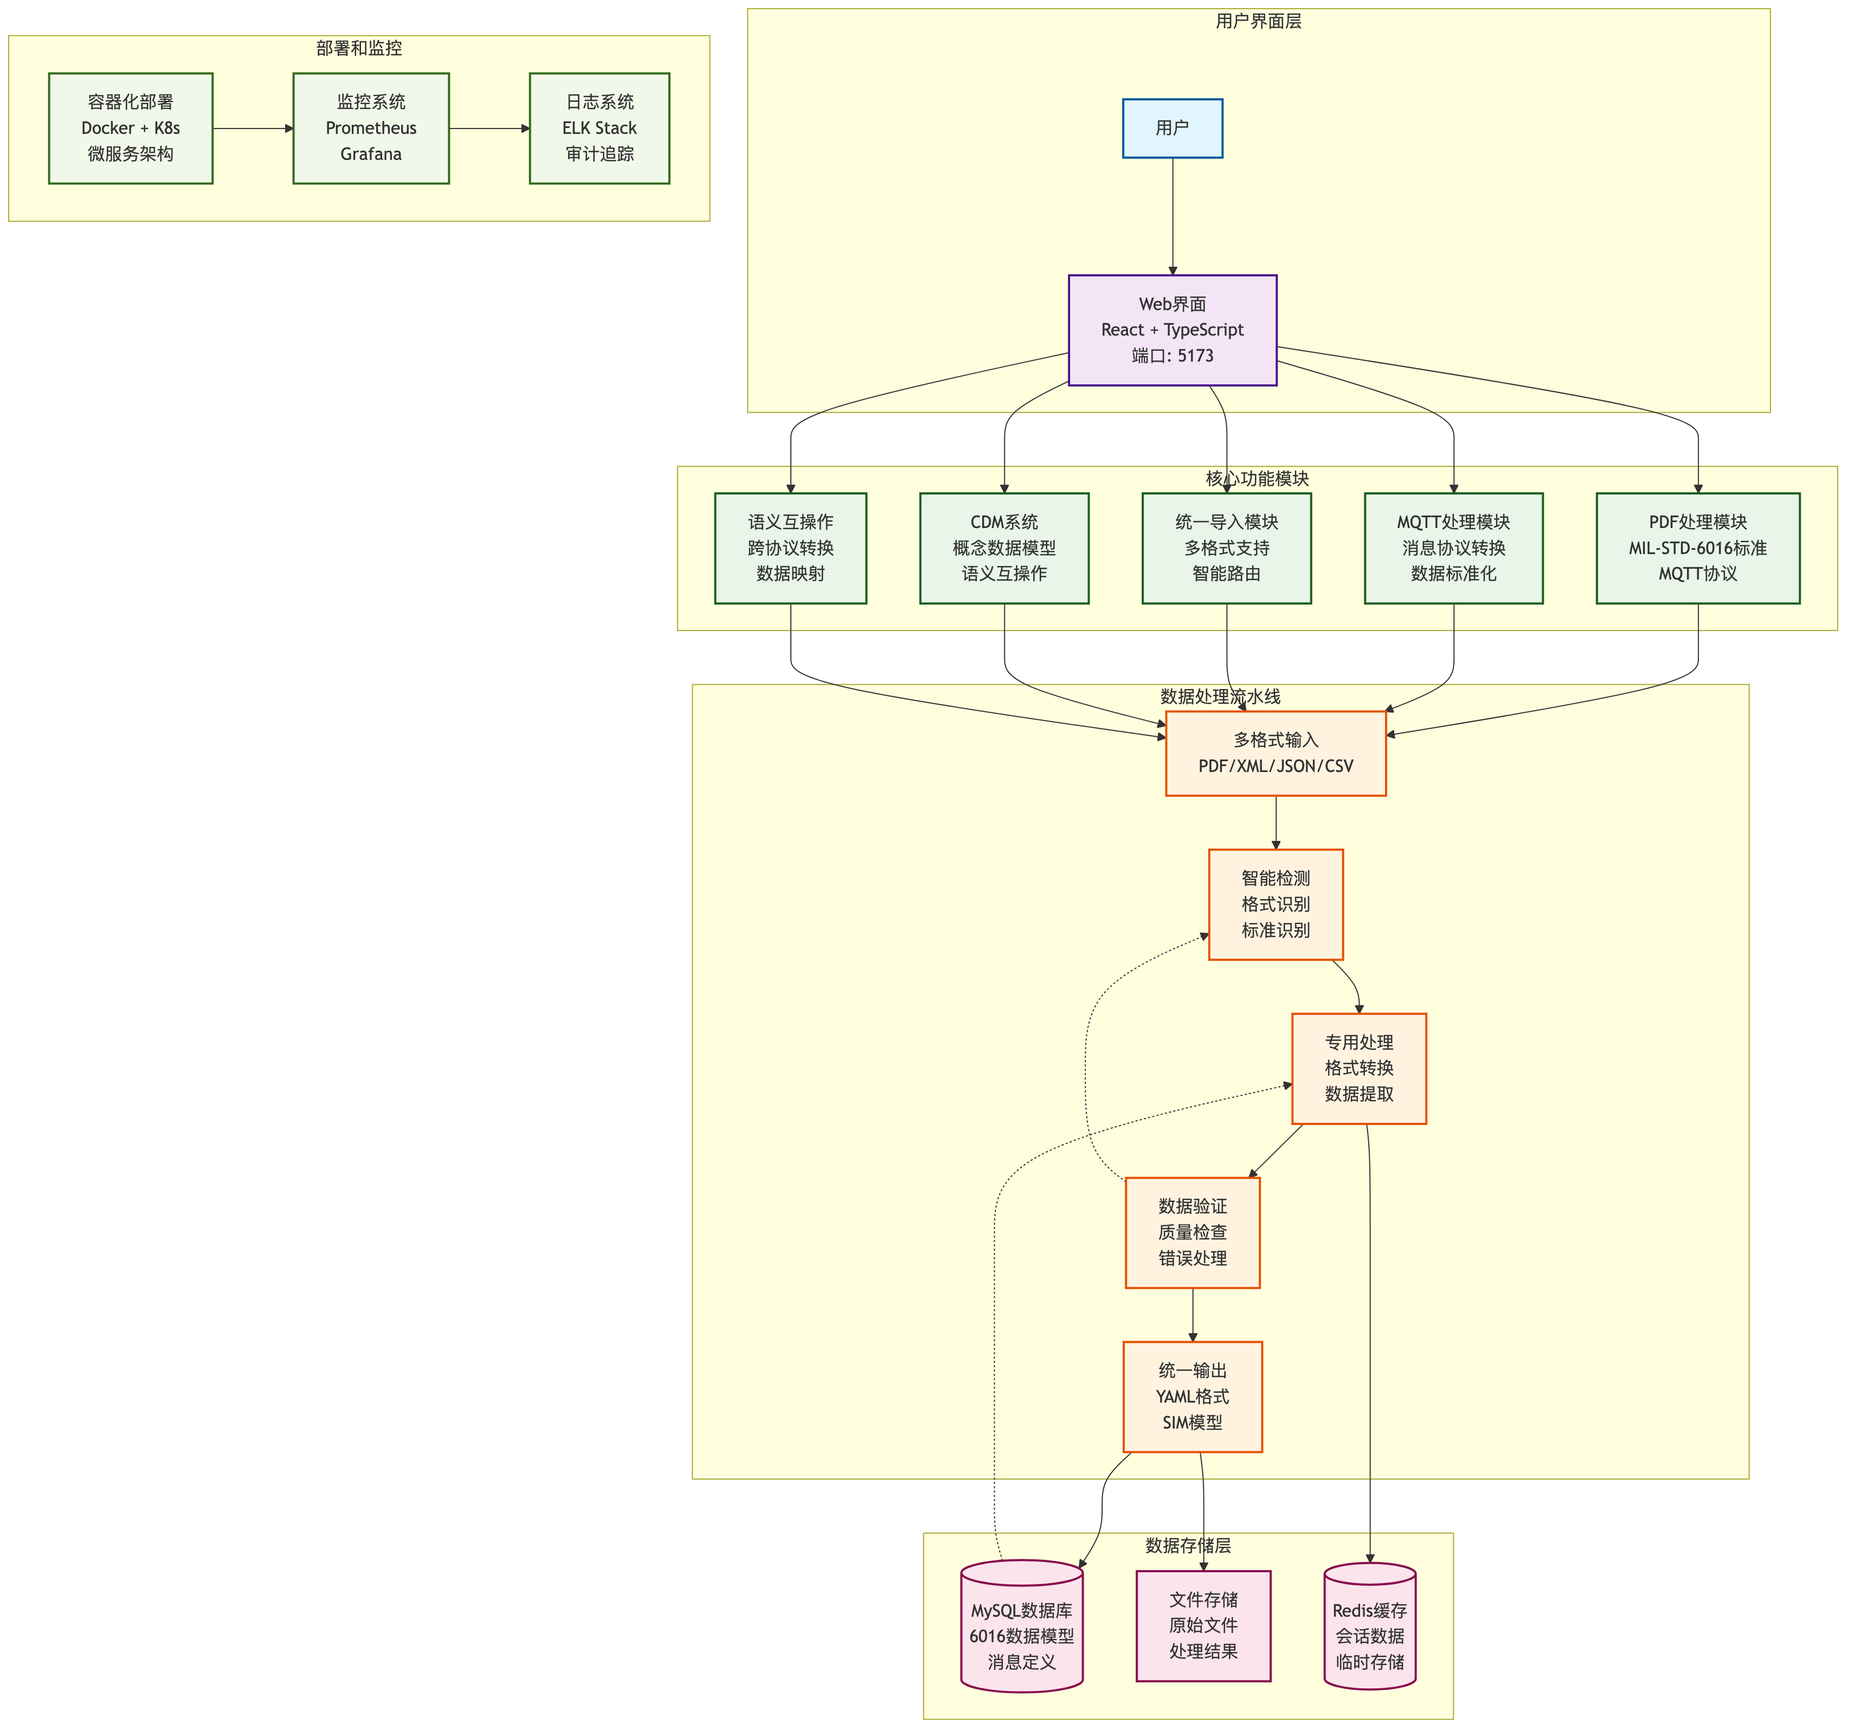
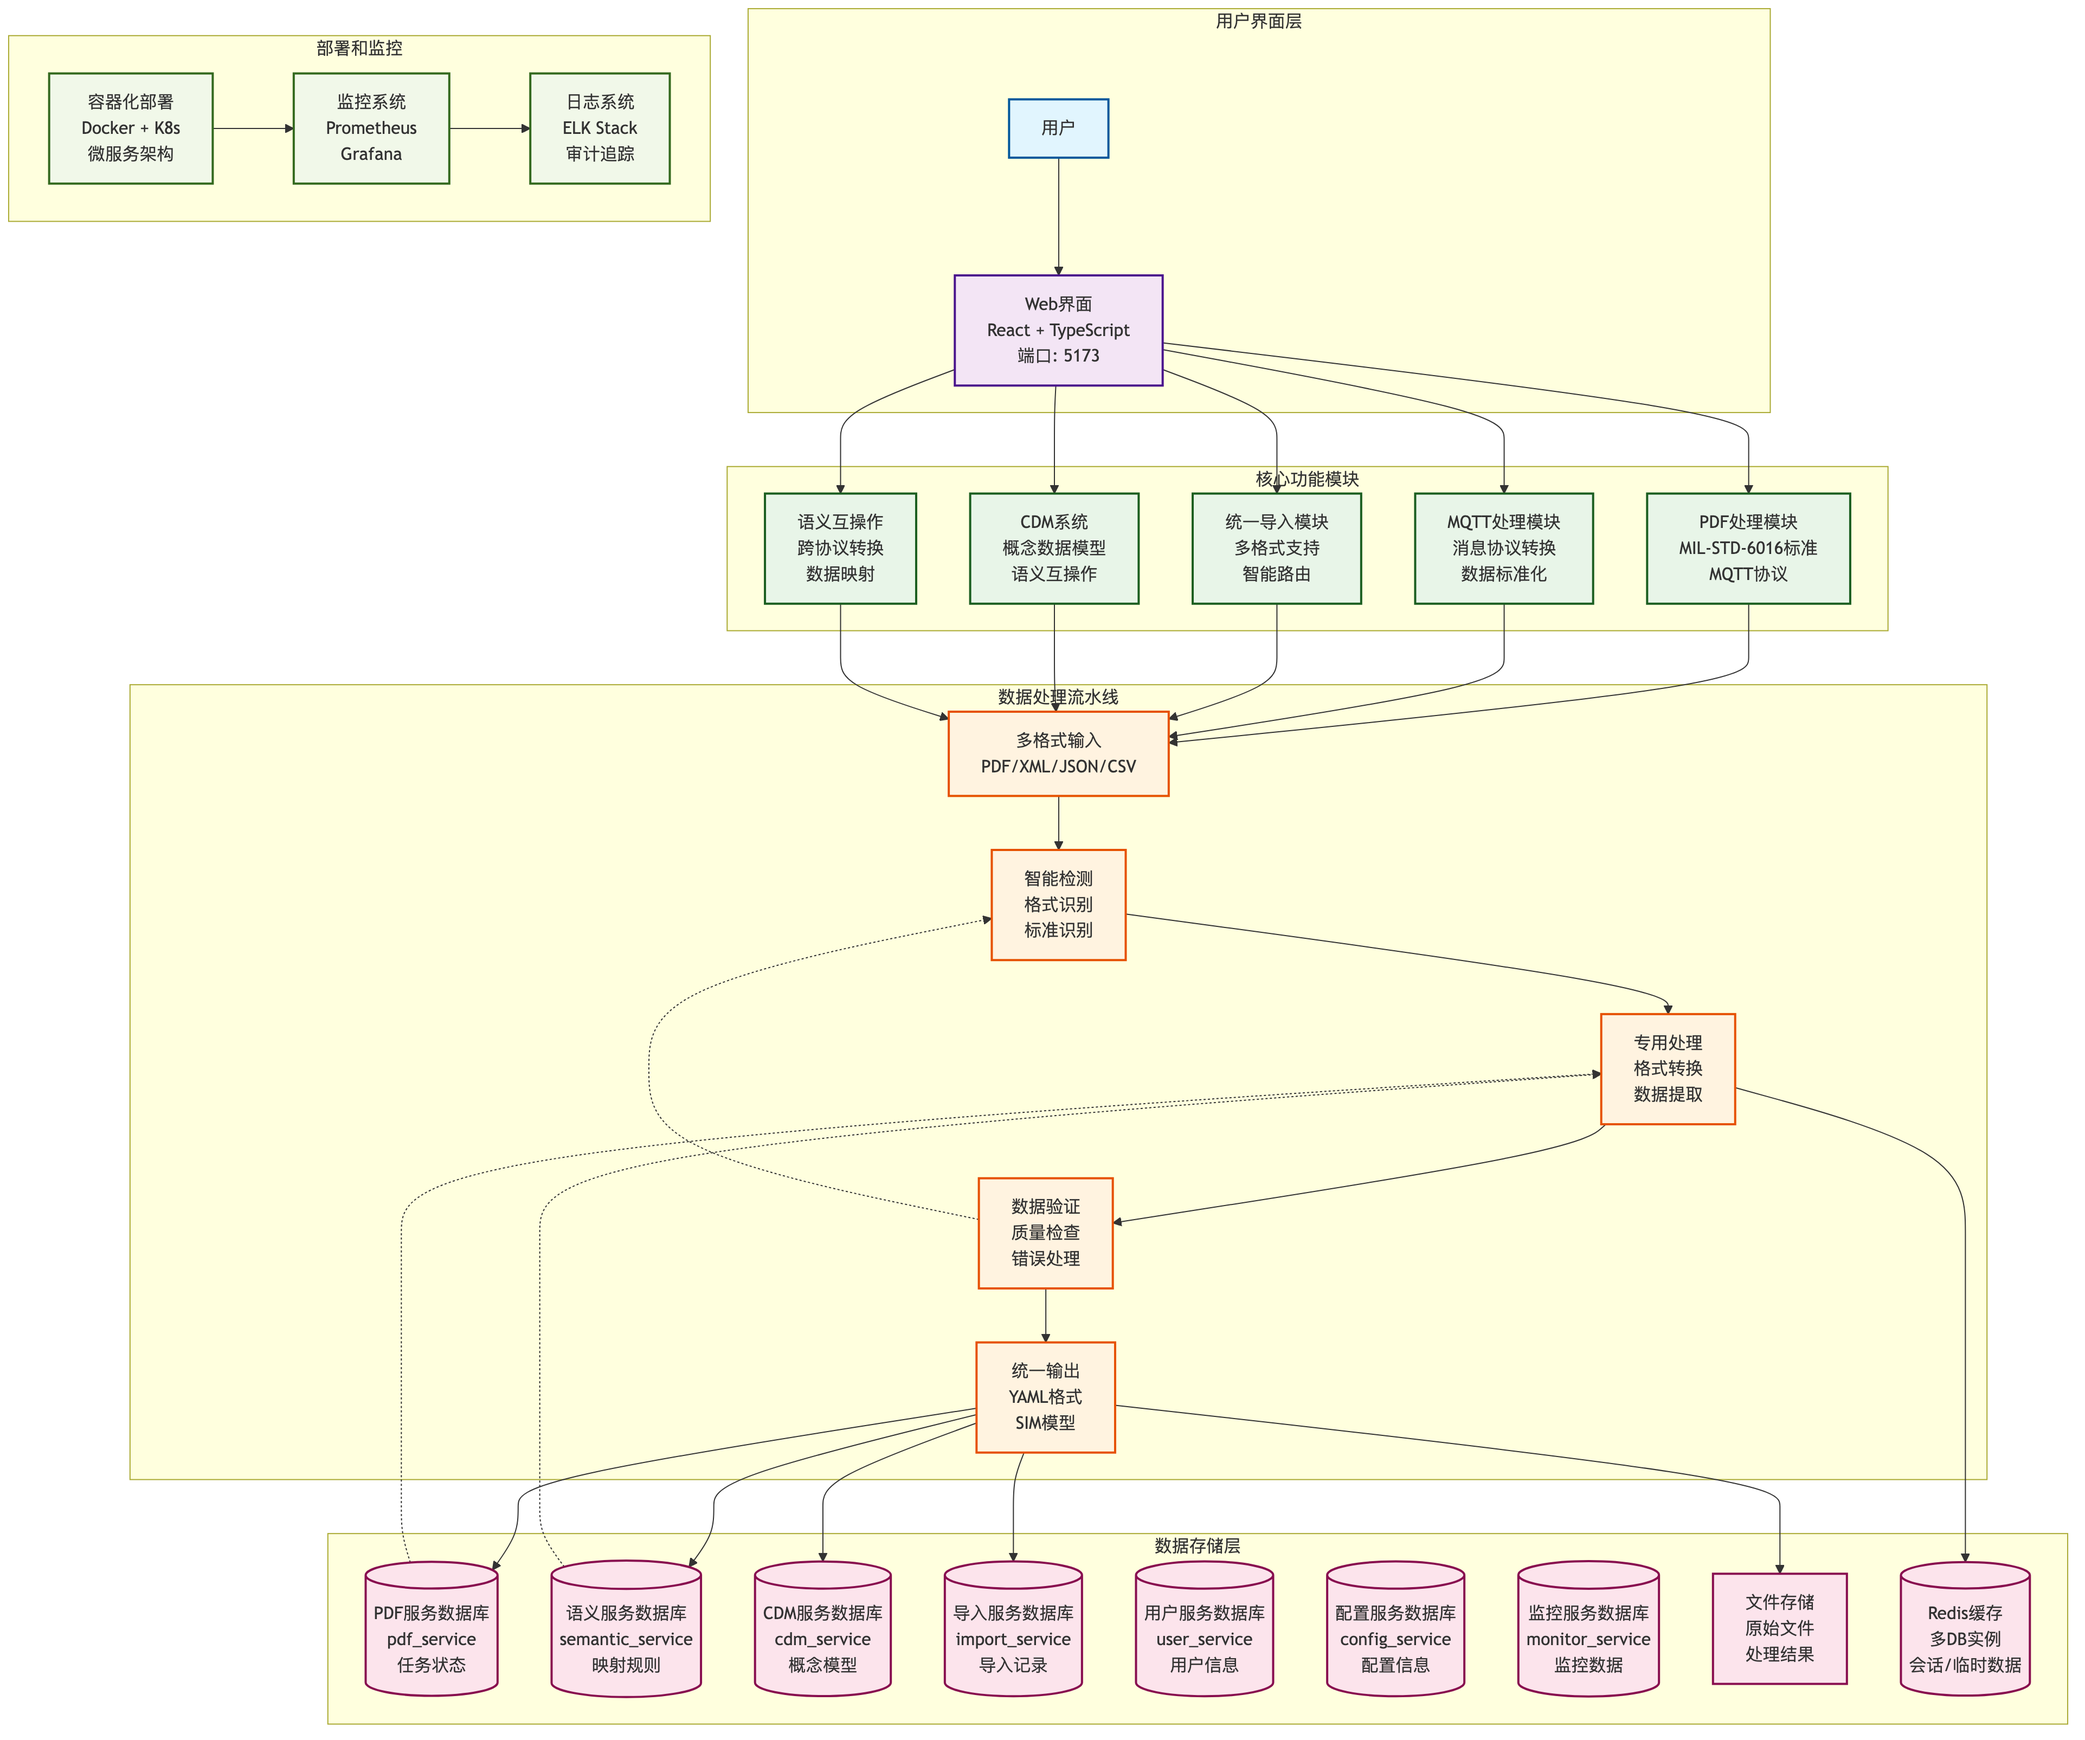
mmd

diff --git a/mmd/README.md b/mmd/README.md
@@ -76,6 +76,14 @@
 - 监控技术栈：Prometheus、Grafana等
 - 开发工具栈：Git、ESLint、pytest等
 
+### 7. 数据库架构图 (`database_architecture.mmd`) ⭐ 新增
+详细展示了微服务数据库架构：
+- 微服务层：7个独立的微服务，每个服务对应专用数据库
+- 数据库实例层：7个独立的MySQL数据库实例，端口分离
+- 数据表结构：每个数据库的详细表结构设计
+- 缓存层：Redis多DB实例，按服务分离缓存
+- 数据一致性：事件总线、Saga模式、CQRS模式
+
 ## 🚀 如何使用
 
 ### 在线查看
@@ -99,6 +107,7 @@
    mmdc -i api_structure.mmd -o api_structure.png
    mmdc -i deployment_architecture.mmd -o deployment_architecture.png
    mmdc -i technology_stack.mmd -o technology_stack.png
+   mmdc -i database_architecture.mmd -o database_architecture.png
    ```
 
 ### 在文档中使用
